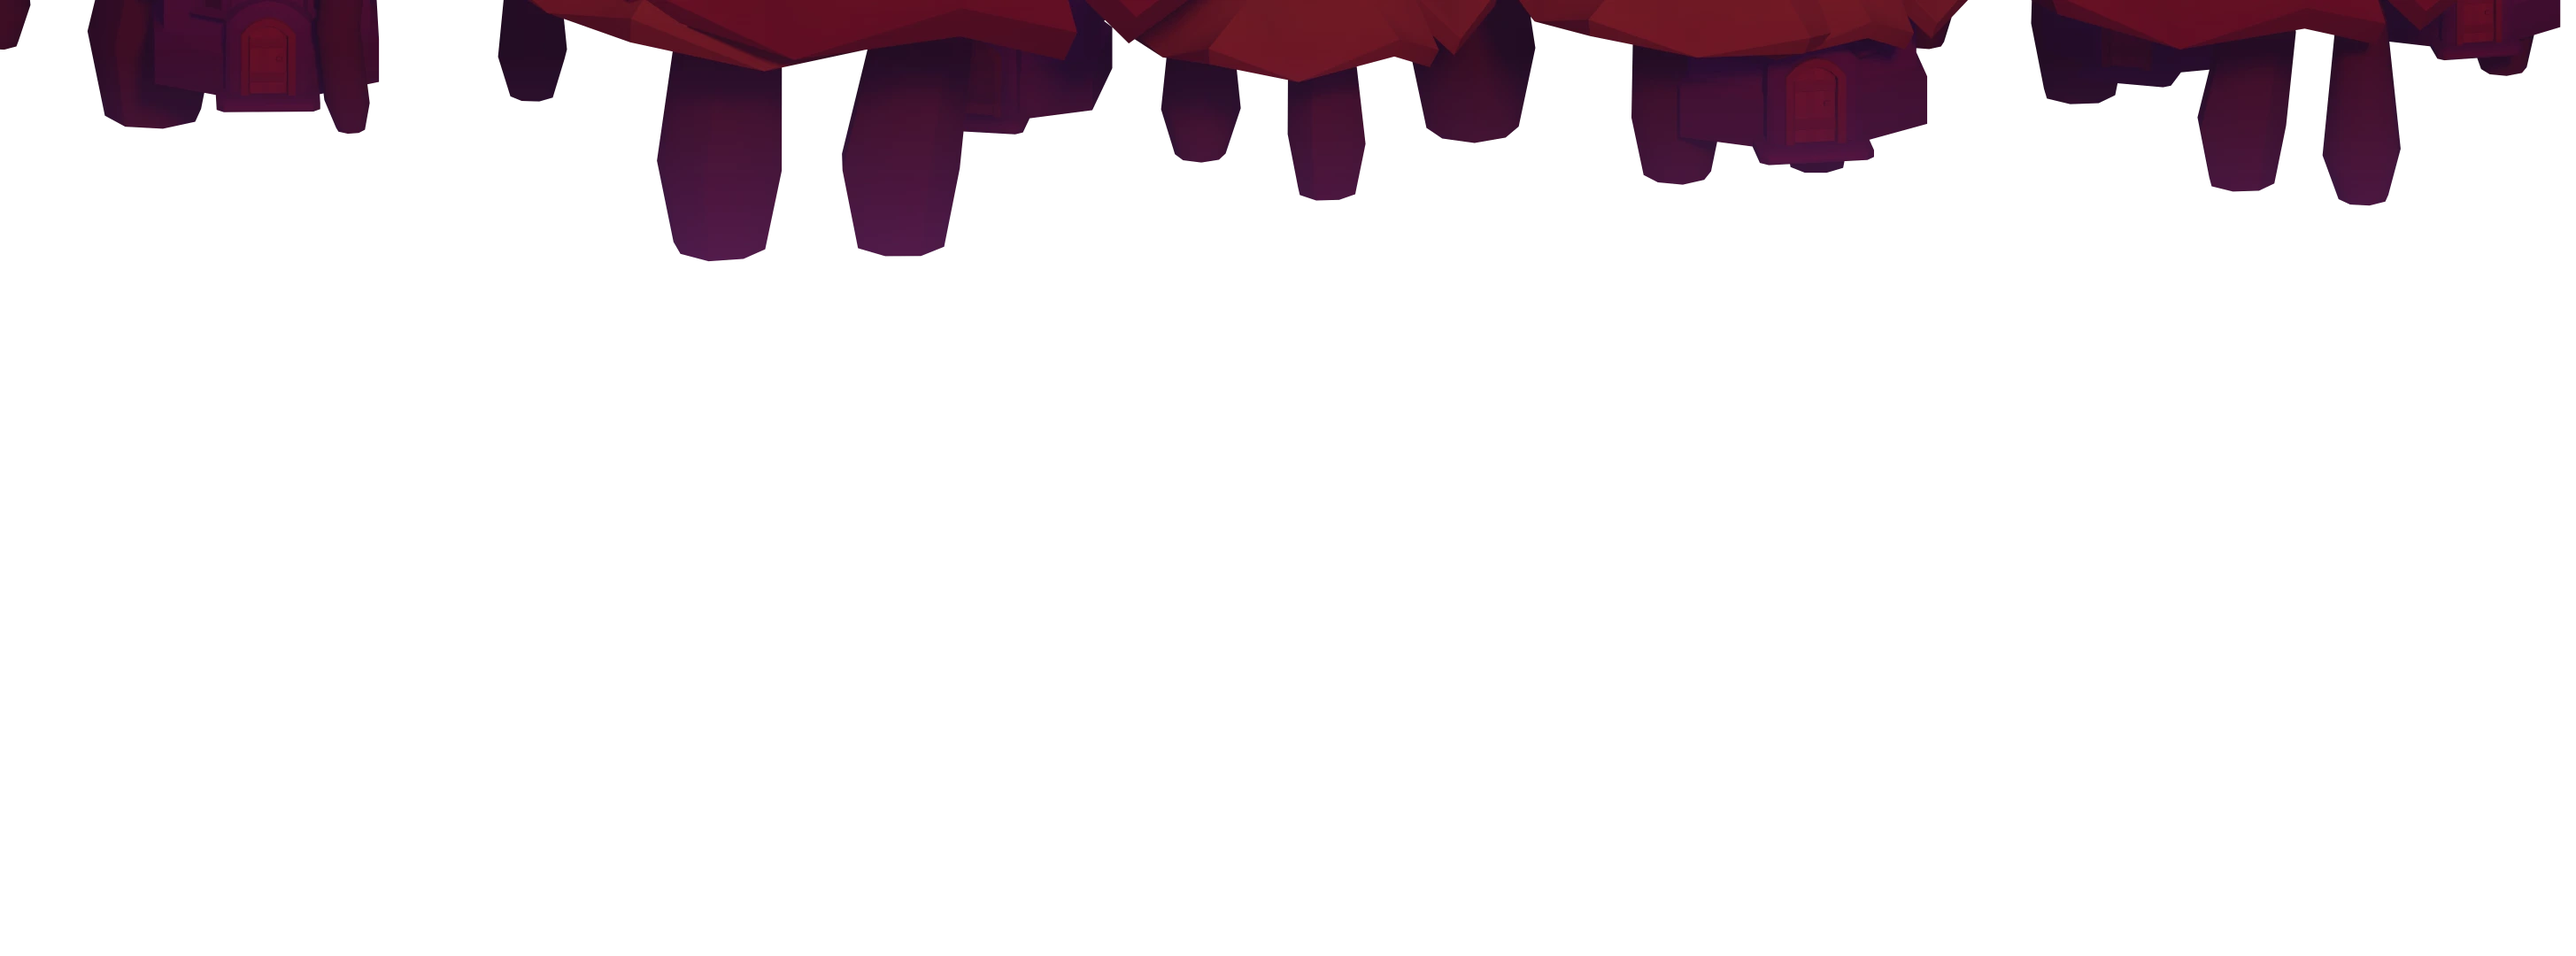
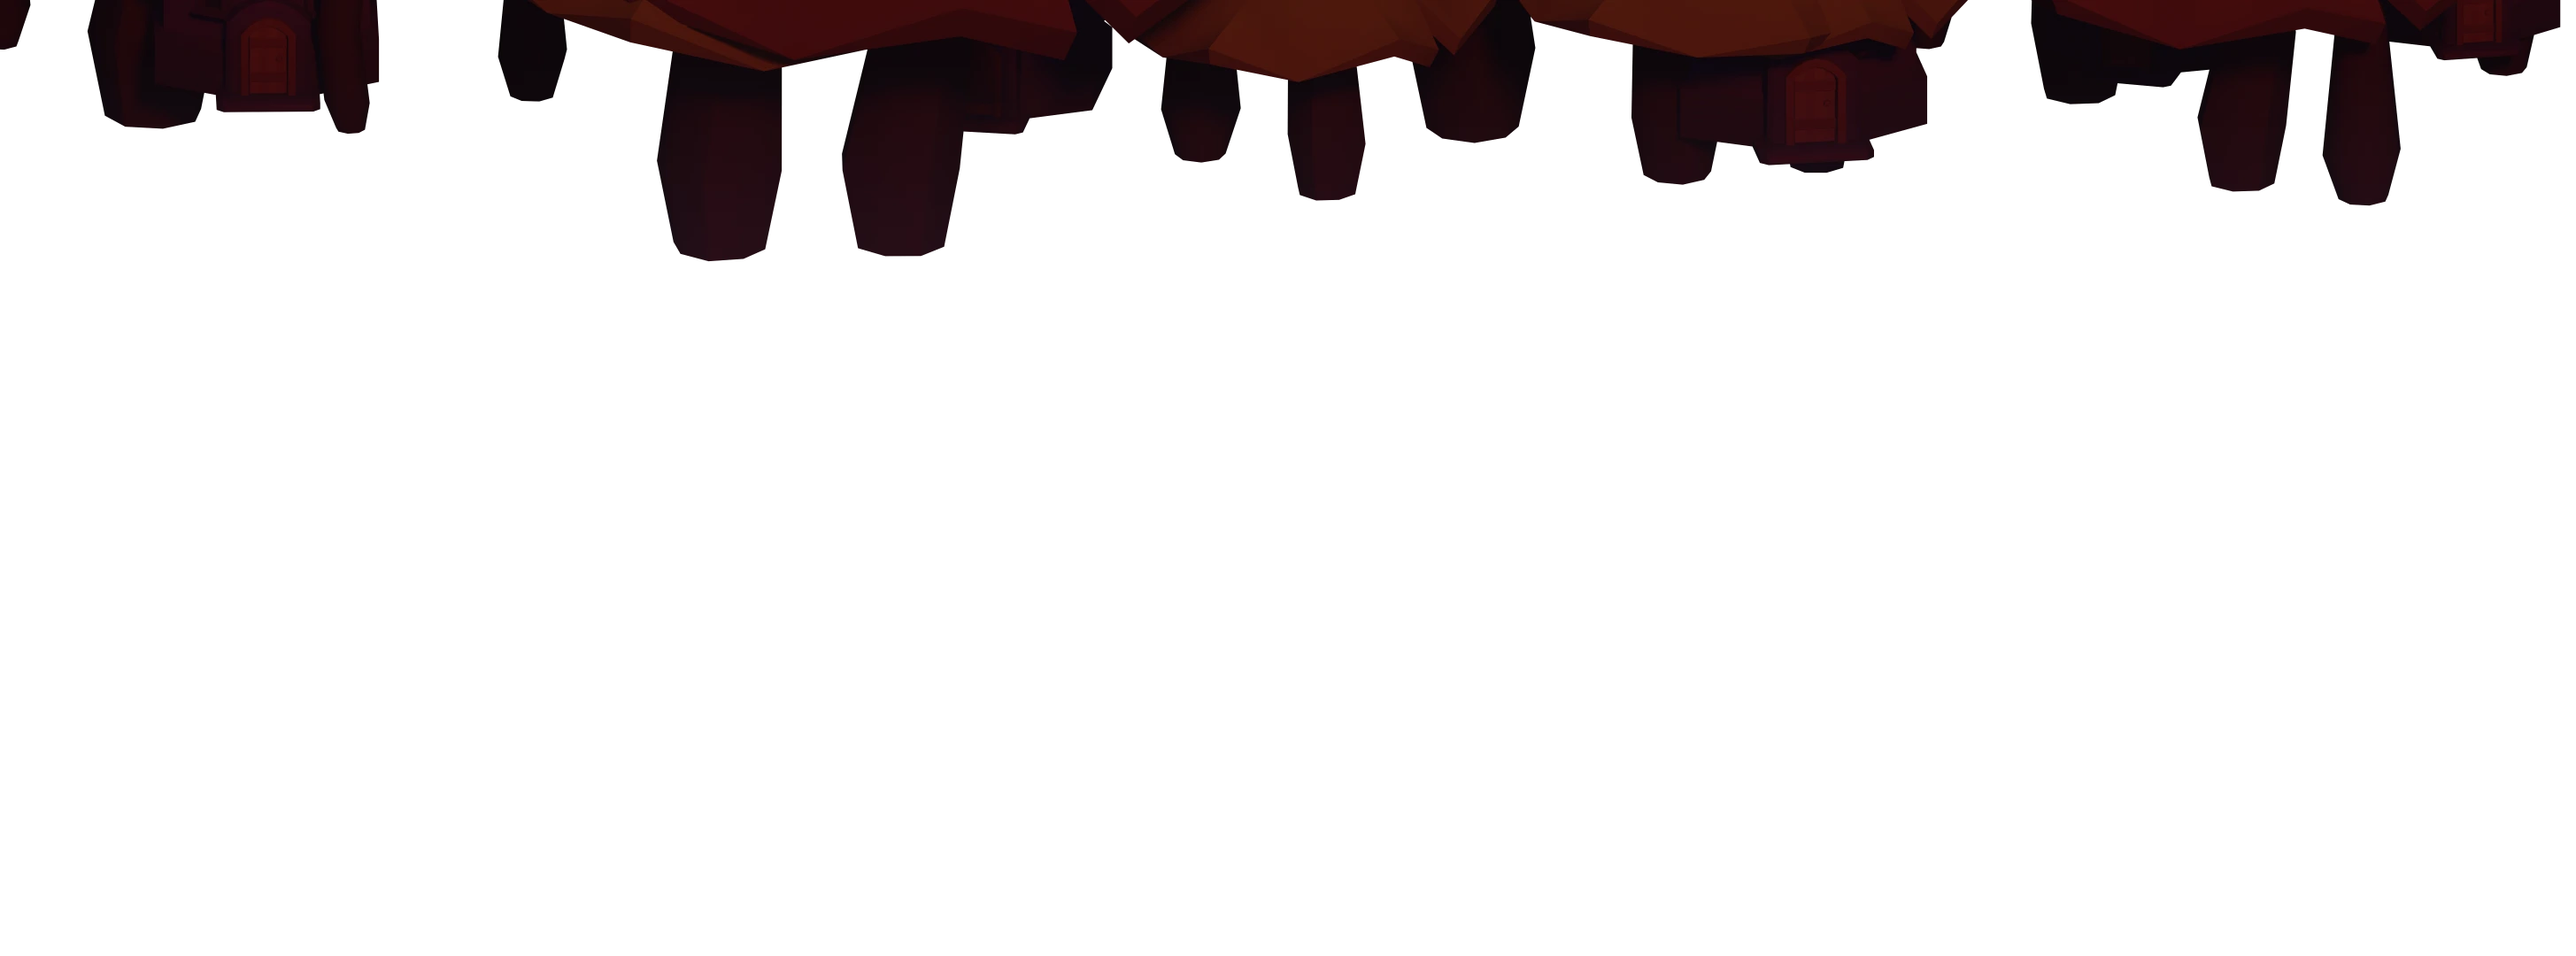
Fire and blood-moon chapters graded down; rarer fx sheets stream in after the wave starts
- courtyard_fire: half the sky glow and haze, neutral ambient, lighter sprite tint
- courtyard_bloodmoon: no more pink walls (muted sun/sky/ambient, haze 0.35), lighter tint
- only 10 small fx sheets load before a wave; the big rare ones (explosion, portal, beams,
  circles ...) load 1.2 s in, procedural particles cover until then

Changed region(s): [[0.1856, 0.0, 1.0, 0.275], [0.0, 0.0, 0.1546, 0.1528]]

diff --git a/tools/bake/src/scenes/courtyard.ts b/tools/bake/src/scenes/courtyard.ts
@@ -127,20 +127,20 @@ const FIRE: Variant = {
       [0.45, '#5a1c14'],
       [1, '#d4501c'],
     ],
-    glow: { x: 700, y: 230, r: 800, color: '#ff7a24', a: 0.6 },
+    glow: { x: 700, y: 230, r: 700, color: '#ff7a24', a: 0.32 },
     stars: 0,
     clouds: { n: 16, color: '#150a0c', a: 0.85, y0: 20, y1: 200 },
   },
   light: {
-    sun: { dir: [-0.2, 0.35, 0.8], color: 0xff7a38, intensity: 0.5 },
-    sky: { color: 0xa05a58, intensity: 0.6 },
-    bounce: { color: 0x7a3418, intensity: 0.4 },
-    ambient: { color: 0x40282e, intensity: 0.3 },
+    sun: { dir: [-0.2, 0.35, 0.8], color: 0xff9a60, intensity: 0.5 },
+    sky: { color: 0x7a6070, intensity: 0.6 },
+    bounce: { color: 0x6a3420, intensity: 0.25 },
+    ambient: { color: 0x3a3038, intensity: 0.35 },
   },
-  torch: { color: 0xff8a2a, intensity: 3.5, glow: '#ff7a1e', glowA: 0.4 },
-  haze: { color: '#a8381c', a: 0.65 },
-  fog: { color: [0.14, 0.05, 0.04], amount: 0.2 },
-  grade: { spriteTint: '#ffc8a0', fog: 0.15, weather: 'embers' },
+  torch: { color: 0xff8a2a, intensity: 3.5, glow: '#ff7a1e', glowA: 0.3 },
+  haze: { color: '#8a3a20', a: 0.3 },
+  fog: { color: [0.1, 0.05, 0.04], amount: 0.1 },
+  grade: { spriteTint: '#ffe2cc', fog: 0.08, weather: 'embers' },
   extras: { burning: true },
 };
 
@@ -153,21 +153,21 @@ const BLOOD: Variant = {
       [0.55, '#3a0c1c'],
       [1, '#6a1830'],
     ],
-    glow: { x: 900, y: 120, r: 560, color: '#ff3040', a: 0.4 },
+    glow: { x: 900, y: 120, r: 520, color: '#ff3040', a: 0.3 },
     moon: { x: 880, y: 56, r: 50, color: '#d83a36', halo: 'rgba(220,40,50,0.4)' },
     stars: 90,
     clouds: { n: 8, color: '#2a0c1c', a: 0.7, y0: 40, y1: 190 },
   },
   light: {
-    sun: { dir: [0.35, 0.55, 0.7], color: 0xff5a54, intensity: 1.1 },
-    sky: { color: 0xa0508c, intensity: 0.9 },
-    bounce: { color: 0x4a2040, intensity: 0.35 },
-    ambient: { color: 0x5a3070, intensity: 0.6 },
+    sun: { dir: [0.35, 0.55, 0.7], color: 0xd86a64, intensity: 0.8 },
+    sky: { color: 0x6a5a78, intensity: 0.7 },
+    bounce: { color: 0x3a2434, intensity: 0.3 },
+    ambient: { color: 0x3c3448, intensity: 0.5 },
   },
-  torch: { color: 0xffa04a, intensity: 5, glow: '#ff9040', glowA: 0.3 },
-  haze: { color: '#6a2a70', a: 0.65 },
-  fog: { color: [0.16, 0.07, 0.2], amount: 0.16 },
-  grade: { spriteTint: '#e8b8e8', fog: 0.3, weather: 'fog' },
+  torch: { color: 0xffa04a, intensity: 6, glow: '#ff9040', glowA: 0.3 },
+  haze: { color: '#4a2a40', a: 0.35 },
+  fog: { color: [0.1, 0.06, 0.1], amount: 0.1 },
+  grade: { spriteTint: '#ecdce4', fog: 0.15, weather: 'fog' },
   extras: { graves: true, mist: true },
 };
 

diff --git a/src/render/assets/preload.ts b/src/render/assets/preload.ts
@@ -20,6 +20,23 @@ import { clearSpriteInfo } from './sprites';
 /** sprites every battle uses besides the loadout and the wave's enemies */
 const ALWAYS = ['ash', 'ash_left', 'npc_blacksmith', 'book', 'coin', 'coin_silver', 'mana_orb', 'food', 'shot', 'arrow', 'rock', 'gib_bone_a', 'gib_bone_b', 'gib_bone_c', 'gib_skull', 'unit_archer'];
 
+/**
+ * Effect sheets every fight shows from the first second (hits, deaths, shots). The bigger,
+ * rarer ones (explosions, spell circles, portals, beams ...) stream in after the wave starts
+ * (lazyFx); until then FxRenderer falls back to procedural particles.
+ */
+const FX_CORE = new Set(['fx_bone_burst', 'fx_dust_puff', 'fx_slash', 'fx_smoke_puff', 'fx_spark_burst', 'fx_muzzle_flash', 'fx_ember', 'fx_glow', 'fx_soul', 'fx_fire']);
+
+/** Queue every baked fx sheet not loaded up-front; `onDone` runs when the loader goes idle. */
+export function lazyFx(scene: Phaser.Scene, onDone: () => void): void {
+  let any = false;
+  for (const key of Object.keys(getManifest().sprites)) {
+    if (!key.startsWith('fx_') || FX_CORE.has(key)) continue;
+    if (!requestSprite(scene, key)) any = true;
+  }
+  if (any) scene.load.once('complete', onDone);
+}
+
 /** chapter (1-based) of a wave, matching core/world.ts */
 export function chapterOf(wave: number): number {
   return (Math.floor((Math.max(1, wave) - 1) / 10) % 5) + 1;
@@ -60,8 +77,8 @@ export function spritesForWave(app: AppContext, params: WaveStartParams): Set<st
       }
     }
   }
-  // baked effects are small and shared by everything
-  for (const key of Object.keys(getManifest().sprites)) if (key.startsWith('fx_')) out.add(key);
+  // the common effect sheets; the rest stream in during the wave (lazyFx)
+  for (const key of FX_CORE) if (getManifest().sprites[key]) out.add(key);
   return out;
 }
 

diff --git a/src/render/battle/FxRenderer.ts b/src/render/battle/FxRenderer.ts
@@ -14,6 +14,7 @@ import { findEntity } from '../../core/world';
 import { applyFrame, atlasScale, frameOf, spriteFrame, type FrameInfo } from '../art/atlas';
 import { FONT_L } from '../art/build';
 import { warnOnce } from '../assets/library';
+import { lazyFx } from '../assets/preload';
 import { getSpriteInfo, type ClipInfo, type SpriteInfo } from '../assets/sprites';
 import { FONT, clamp01, easeOutBack, easeOutCubic, numStr, plusStr } from '../style';
 import { DEPTH } from './depth';
@@ -138,6 +139,12 @@ export class FxRenderer implements BattleRenderer {
     this.layout = view.layout;
     this.gy = view.data.balance.world.groundY;
     resetHitStop();
+    // stream the rarer effect sheets in once the wave is running; drop cached misses when done
+    scene.time.delayedCall(1200, () =>
+      lazyFx(scene, () => {
+        for (const [k, v] of this.infos) if (v === null) this.infos.delete(k);
+      }),
+    );
     for (const k of ['p_dot', 'p_spark', 'p_smoke', 'p_ring', 'p_star', 'p_shard', 'p_bone', 'glow', 'arrow', 'rock', 'px', 'vignette', 'coin', 'coin_silver', 'mana_orb', 'food']) {
       this.fr[k] = frameOf(k) ?? spriteFrame(k);
     }
